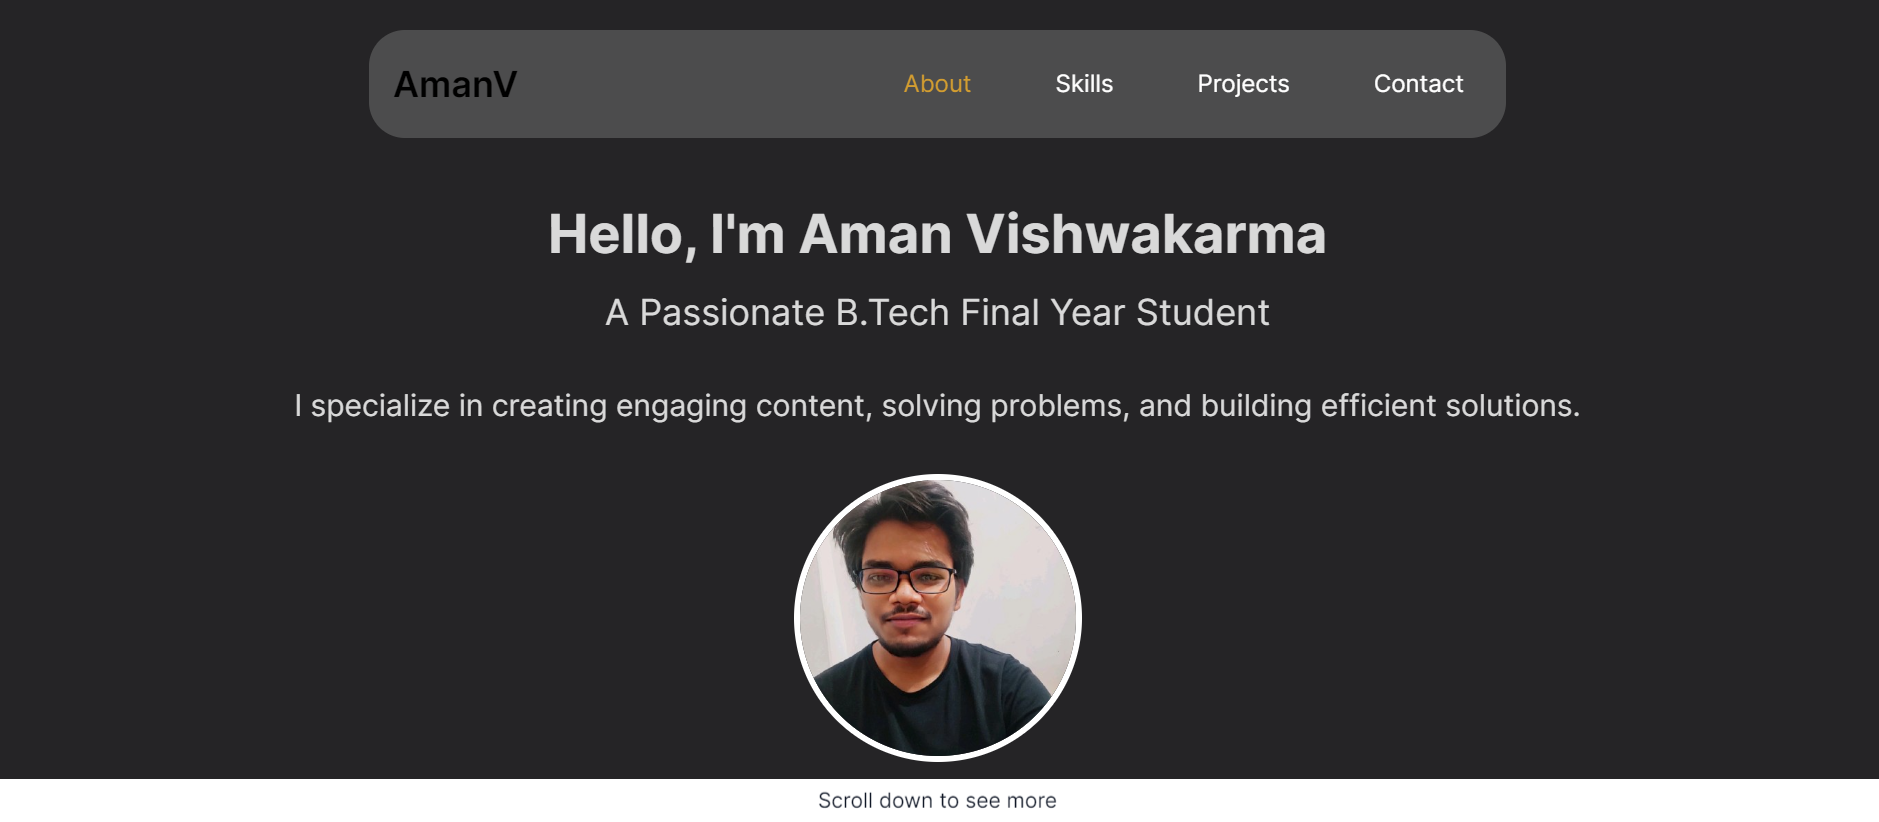
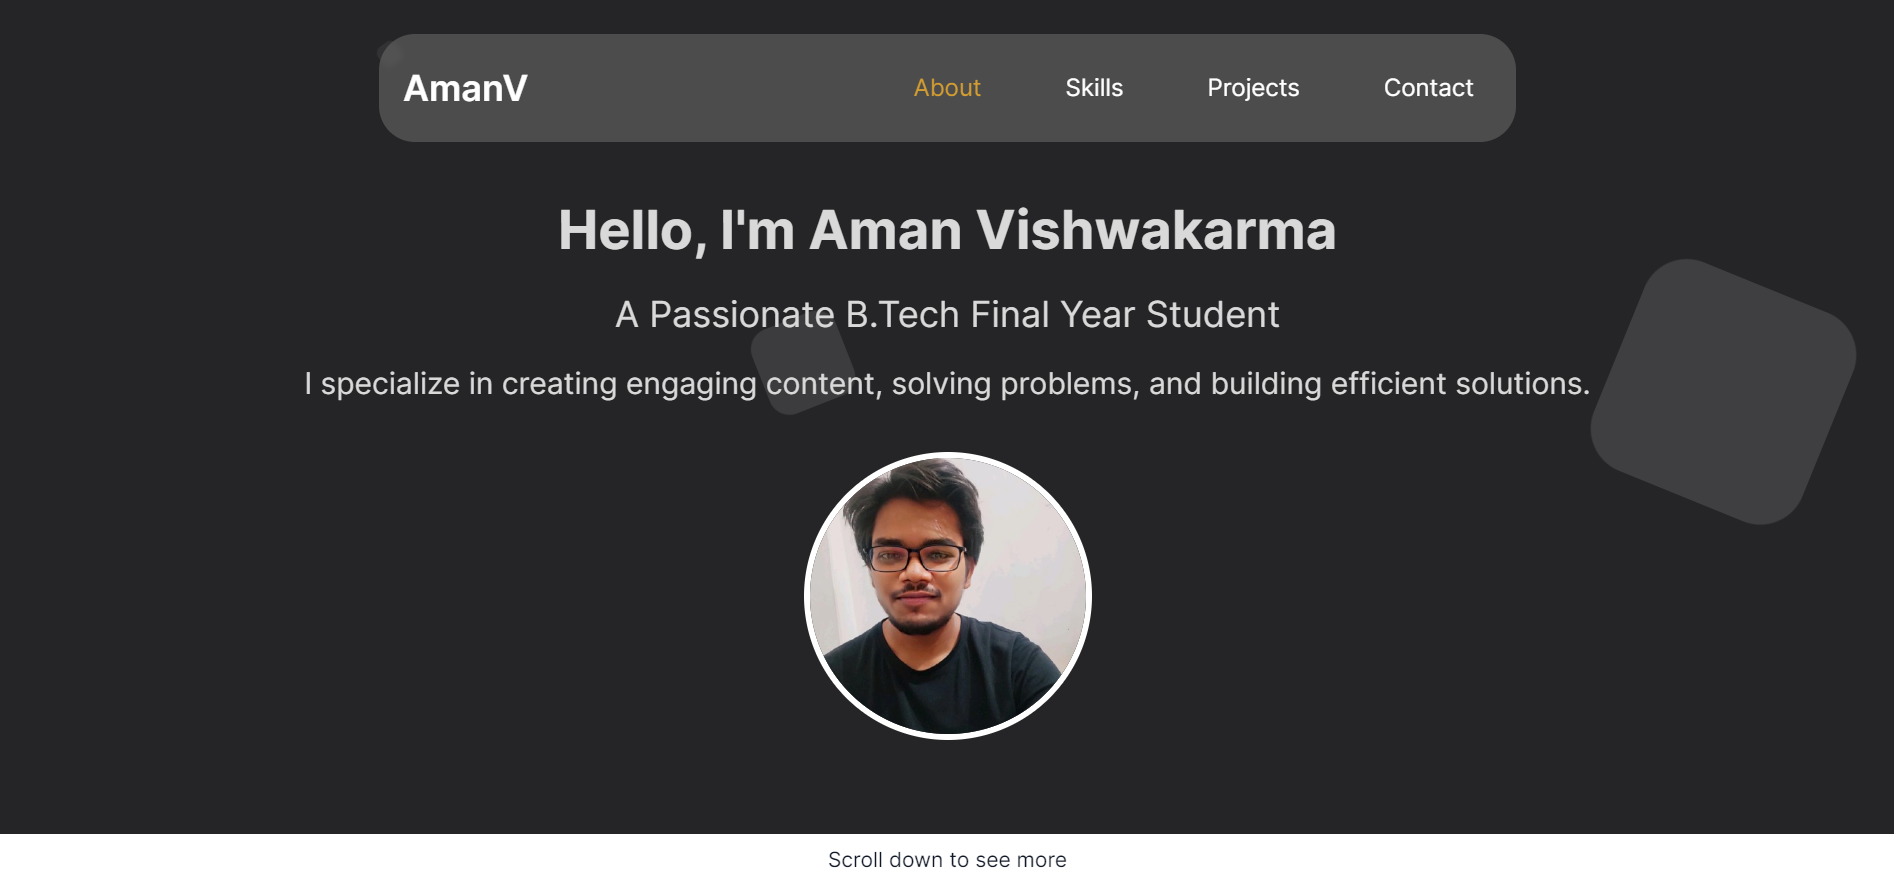
added some features

diff --git a/portfolio/src/components/hero/index.js b/portfolio/src/components/hero/index.js
@@ -1,6 +1,7 @@
 'use client'
 import React, { useRef } from "react";
-import Navbar from "../navbar/index.js";  
+import Navbar from "../navbar/index.js"; 
+import Typical from 'react-typical'; 
 
 const Hero = () => {
   const contentRef = useRef(null);
@@ -15,7 +16,6 @@ const Hero = () => {
 
   return (
     <div className="relative h-[100dvh]  w-full bg-[#252426] text-white flex flex-col justify-center items-center">
-      {/* Animated circles */}
       <div className="absolute top-0 left-0 w-full h-full overflow-hidden">
         <ul className="circles">
           <li className="circle circle-1"></li>
@@ -35,7 +35,7 @@ const Hero = () => {
       <Navbar />
 
       {/* Content */}
-      <div className="container mt-12 pt-10 mx-auto text-center z-10">
+      <div className="container relative top-20 mx-auto text-center z-10">
         <h1 className="text-4xl md:text-6xl font-bold mb-2 text-[#D9D9D9]">
           Hello, I&apos;m Aman Vishwakarma
         </h1>
@@ -54,8 +54,17 @@ const Hero = () => {
           />
         </div>
       </div>
+      <div className="text-lg md:text-xl relative top-10 mb-8 px-3 text-[#D9D9D9] min-w-[250px]">
+        <Typical
+          steps={['Welcome to my portfolio!!!', 1500, 'Discover my projects-->', 1500, 'Learn more about me...!', 1500]}
+          loop={Infinity}
+          wrapper="p"
+          className="font-smooth"
+        />
+      </div>
 
-      {/* Scroll indicator */}
+
+       
       <div className="absolute bottom-0 left-0 w-full text-center p-2 bg-white bg-opacity-75">
         <p
           className="text-gray-900 text-sm md:text-base animate-bounce cursor-pointer"
@@ -64,8 +73,7 @@ const Hero = () => {
           Scroll down to see more
         </p>
       </div>
-
-      {/* CSS for animated circles and background animation */}
+ 
       <style jsx>{`
         .circle {
           position: absolute;
@@ -179,6 +187,11 @@ const Hero = () => {
         .bg-animate {
           animation: gradientAnimation 10s linear infinite alternate;
         }
+          // after image typing content
+        .font-smooth {
+          -webkit-font-smoothing: antialiased;  
+        }
+
       `}</style>
     </div>
   );

diff --git a/portfolio/src/app/page.js b/portfolio/src/app/page.js
@@ -1,3 +1,4 @@
+'use client'
 import Link from 'next/link'
 import Skill from "../components/skill";
 import Navbar from "../components/navbar";
@@ -5,6 +6,8 @@ import About from "../components/about";
 import Hero from "../components/hero";
 import Projects from "../components/projects";
 import Footer from "../components/footer"; 
+import smoothscroll from 'smoothscroll-polyfill';
+smoothscroll.polyfill();
 export default function Home() {
   return (
     <div className='flex items-center flex-col'>
